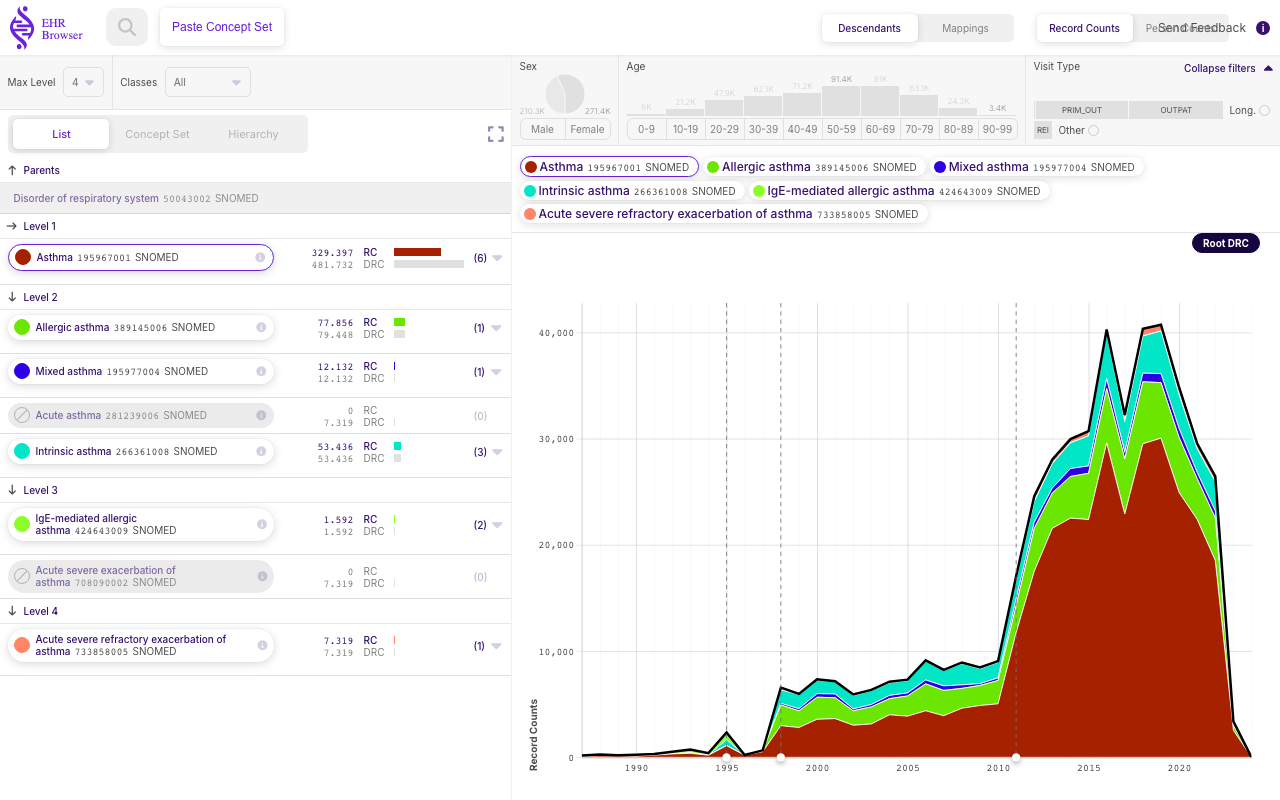
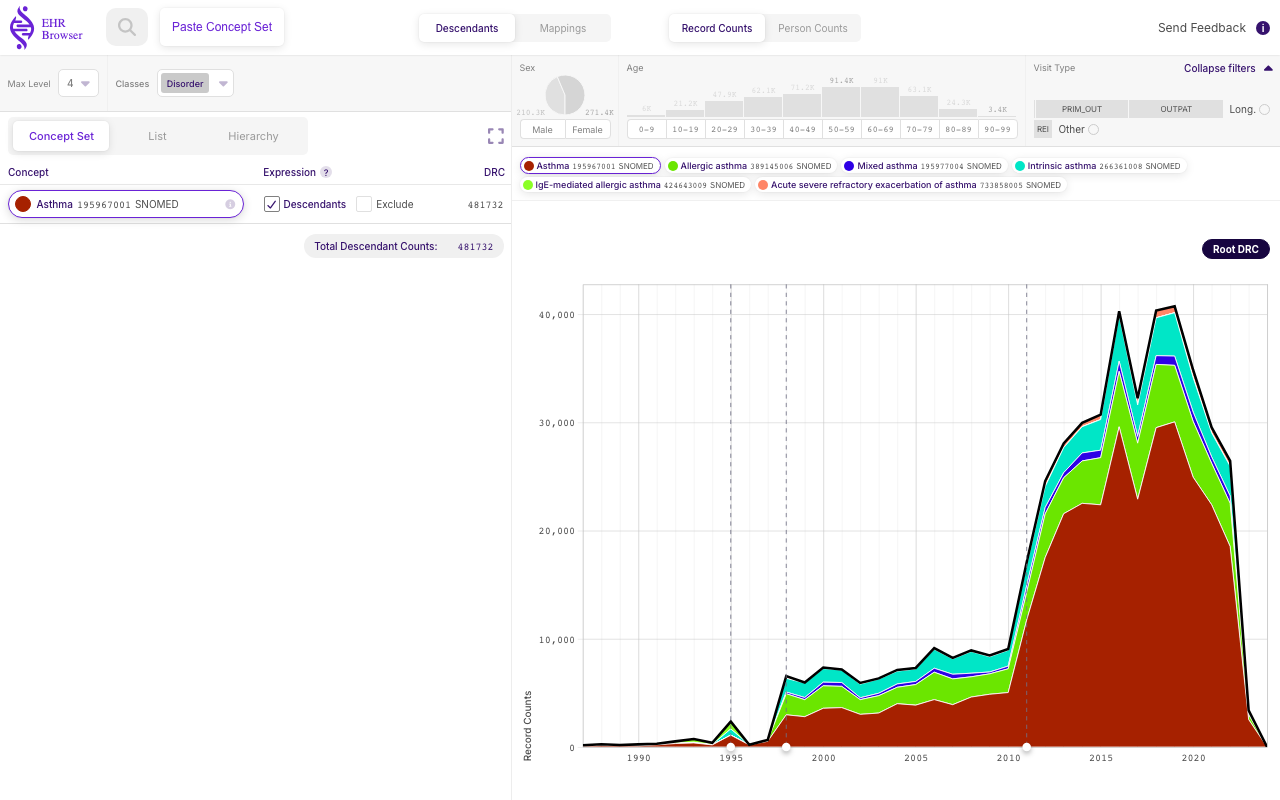
docs(autodocu): expand concept-set outline and update screenshots
Reframe docs around Concept Sets, add detailed hierarchy/list/counts
panel walkthroughs, and document British-English/highlighting style
conventions. Refresh the concept, hierarchy, and time view screenshots.

diff --git a/AUTODOCU/Outline/1.Exploring_a_single_standard_concept/README.md b/AUTODOCU/Outline/1.Exploring_a_single_standard_concept/README.md
@@ -4,7 +4,7 @@ Exploring a single Standard Concept
 
 # Description
 
-The EHR Browser lets you load any standard concept from the vocabulary and immediately see its descendants, their record counts over time, and how the counts break down by sex and age. This section walks through loading **Asthma (SNOMED)** as an example.
+The EHR Browser lets you load any standard concept from the vocabulary and explore its descendants, their record/person counts over time, and how the counts break down by sex, age, and visit type. This section walks through loading **Asthma (SNOMED)** as an example.
 
 # Sections
 
@@ -14,17 +14,62 @@ The EHR Browser lets you load any standard concept from the vocabulary and immed
 - Hover over 'Asthma SNOMED', `highlight` the 'Asthma SNOMED' concept in the list, `take-screenshot` 
 - Click 'Asthma SNOMED', wait for the page to load
 
-## The concept view
+## Overlall view
 
 - `take-screenshot` 
-- Describe the different sections of the concept page. The top area is for changing the current concept or switch views that affect the whole page, showing mapped concepts or switch between record and person counts. The left area shows different counts distributions across hierarchy. The right view shows the counts distributions across Sex, Age, Visit Type, and Time. 
+- Describe the different sections of the concept page. 
+  - "Concept Control (top bar)": is for changing the current concept or switch views that affect the whole page, showing mapped concepts or switch between record and person counts. 
+  - "Hierarchy view (left pannel)" The left area shows different counts distributions across hierarchy. 
+  - "Counts stratified view (right pannel)" The right view shows the counts distributions across Sex, Age, Visit Type, and Time. 
 
-### Hierarchy view
+### Hierarchy pannel (left pannel)
 
-- Describe briefly the 3 options for hierarchy view: List, Concept Set, Hierarchy
-- `highlight` the 'List' selector in the left area and `take-screenshot`
+- Describe briefly the 3 options for hierarchy view: Concept Set, List, Hierarchy
+
+#### Concept Set
+
+-  `highlight` the 'Concept Set' selector in the left area and `take-screenshot`
+- Descrive the Concept Set option: Mention that the tools is aimed as displaying Concept Sets, hence when working with a single Concept it is showed as a Concept Set with a single concept with all the decendants. We can see here the selected concept and the DRC (Descendant Record Counts).
+
+#### Hierarchy tree
+
+- Click and `highlight` the 'Hierarchy' selector in the left area and `take-screenshot`
+- Descrive the Hierarchy tree: The selected concept appears in the second level of the tree, the upper levels shows the parents of the main concept, the lower levels the descendants. Each node shows the RC (Record Counts) with ball proportional to this number and DRC (Descendant Record Counts) under it. RC means the number of times the concept appears in the database and DRC the number that the concept and all it's descendants appear in the database. 
+- Hover over concept "Allergic asthma", `take-screenshot`. 
+- Descrive, Hovering over a concept will drop down furhter information, and will highlight the concept in the time plot. Clickin on the magnifiginglass in the dropdown will select that concept as the main concept to show, hence the tree can be used to navigate the tree 
+- `highlight` small grey circles on the left side of 'Intrisic asthma' `take-screenshot`
+- Descrive, standard concepts have typically small grey circles on the left side. By clicking onthese will show the non-standard concepts that mapt to that standard code.
+- Click the small grey circles on the left side of 'Intrisic asthma' `take-screenshot`.
+- Descrive the image, mention that clicking on the small x will close them back. 
+
+#### List
+
+- Click and `highlight` the 'list' selector in the left area and `take-screenshot`.
+- Descrive the image, mention that often the tree view can bee to big and nodes hard to see, the list view compapt them in a list of dencendants group by tree level, with the RC and DRC. 
+- Click the (i) icon in "Allergic asthma", `take-screenshot`. 
+- Descrive that, like in the tree view, clicking the (i) icon will dropdown the conded's info
+- Click the down arrow in the left of 'Intrisic asthma' `take-screenshot`.
+- Descrive that like in the tree view, clicking the down arrow opens the descendant codes. 
+- Click the again the arrow in the left of 'Intrisic asthma' to close back the descendants list (do not mention this)
 
 
-### Time view
+### Counts pannel (right pannel)
 
-- `highlight` the plot in the right side including the legend with the colored concepts, `take-screenshot`.
+- `highlight` plot in the right side including the legend with the colored concepts, `take-screenshot`.
+- Descrive the time plot: This shows an stack plot of all the record counts for the selected code and all the descendants over time. 
+- The black line of top shows the DRC for the selected concept. 
+- Hover over the red area, wait few second, `take-screenshot`
+- Descrive that hovering over an area will highligt the concept and dropdown more info. 
+- `highlight` the filter on the top of  the plot in one box (Sex, Age, Visit Type)
+- Descrive that these plots how the distribution of reocrd counts for the Sex, Age, Visit Type, but also they serv as filters when clicked. 
+- Click in "Female" and click in "50-59", `take-screenshot`
+- Descrive that now the time plot only show the recor counts occurrin in Females on the age range of 50-59 years. 
+
+### Concept Control (top bar)
+
+-  `highlight` the full upper bar of the page with the icon, seach, Descendans/Mappings, Recod Counts/Person Counts, Feedback
+- Descrive, this area serves to control the rest of the lower view. Searching an other concept will updateThe view to the new concept. 
+- Click 'Mappings', `highlight` 'Mappings', `take-screenshot`. 
+- Descrive, before we show how Mapped codes can be show per one concept, but clicking this will open the mapping codes on all the concepts in the tree and list. 
+- Click 'Descendants', Click 'Person Counts', `highlight` 'Person Counts', `take-screenshot`. 
+- Descrive that switching to 'Person Counts' will switch the whole view to display PC and DPC instead of RC and DRC, we can see that inThe list, hierachny, time plot and filters. 

diff --git a/AUTODOCU/Outline/README.md b/AUTODOCU/Outline/README.md
@@ -4,11 +4,18 @@ EHRBrowser
 
 # Description
 
-EHR Browser connects to an OMOP-CDM instance and lets you browse the vocabulary graph and visualize how a concept is constructed and used over time. Given a concept, it shows its descendant hierarchy, optional non-standard mappings, and record counts over time broken down by sex and age.
+**EHRBrowser** connects to an **OMOP-CDM** instance and lets you browse the vocabulary graph and visualize how a single **Concept** or a **Concept Set** is constructed and used over time.
+
+In OMOP-CDM terminology, a **Concept** is any medical code found in the vocabulary — this can be a code for a diagnosis, laboratory test, procedure, drug, or any other clinical entity present in the data. A **Concept Set** is a group of **Concepts**.
+
+Given a single **Concept** or **Concept Set**, EHRBrowser can visualise:
+- Its descendant hierarchy tree
+- Non-standard mappings tree
+- Record counts or person counts over time, stratified by sex, age, and visit type
 
 # Index
 
-Name the index section as 'Use cases'
+Name the index section as 'Overview and use cases'
 Show the subsections as a list with the subsection name ':' and a brief description.
 
 eg
@@ -30,3 +37,10 @@ Navegate to
 http://localhost:8563/
 
 Window size: 1280 × 800
+
+
+# Documentation instruction
+
+- Use Britih English 
+- Hihglight the following key workds in the documentaion as **bold** and star them with high case: **EHRBrowser**, **OMOP-CDM**, **Concept**, **Concept Set** 
+- Always expand the acronims in the pictures in parentesis: eg  **DRC** (Descendant Record Counts) 

diff --git a/AUTODOCU/Documentation/README.md b/AUTODOCU/Documentation/README.md
@@ -1,6 +1,6 @@
 # EHRBrowser
 
-EHR Browser connects to an OMOP-CDM instance and lets you browse the vocabulary graph and visualize how a concept is constructed and used over time. Given a concept, it shows its descendant hierarchy, optional non-standard mappings, and record counts over time broken down by sex and age.
+EHR Browser connects to an OMOP-CDM instance and lets you browse the vocabulary graph and visualize how a concept set is constructed and used over time. Given a concept set, it shows its descendants hierarchy, non-standard mappings, and record/person counts over time stratified by sex, age and visit type.
 
 ## Use cases
 
